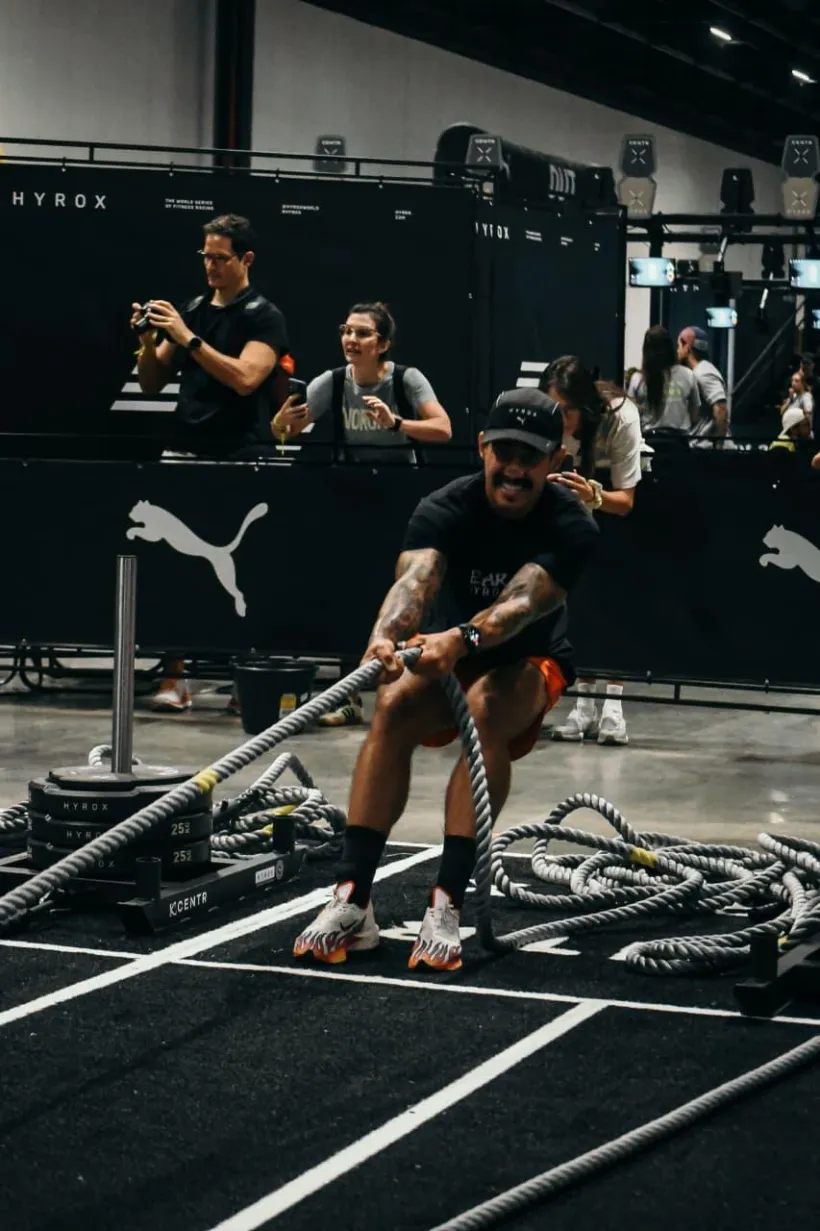
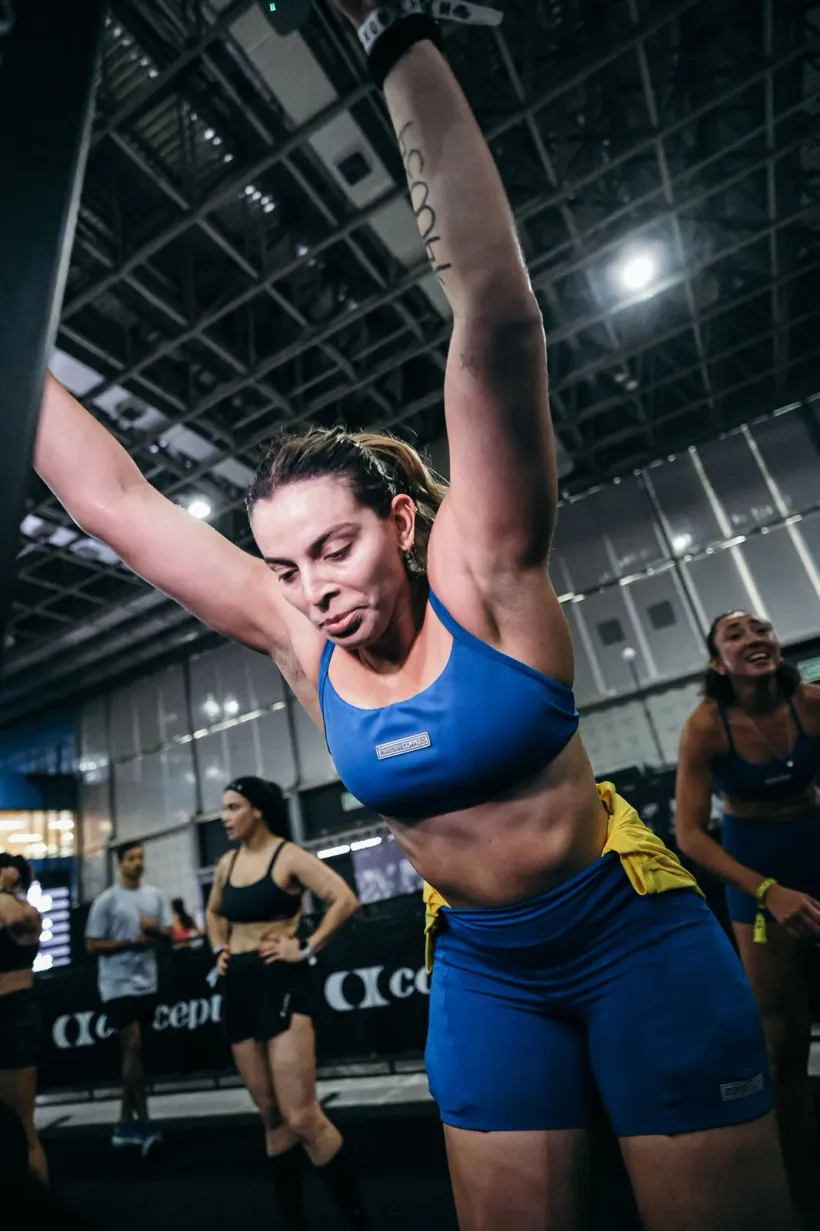
fix: swap HYROX-heavy photos for clean shots
- Day 1: running couple at the finish (cropped side HYROX boards), fits Grand Prix
- Gallery: sandbag lunge + rope + ski + explosive woman (all HYROX-free)
- Removed farmers/rope-cap/sled shots that showed HYROX signage

diff --git a/index.html b/index.html
@@ -159,7 +159,7 @@
 <section class="day day--gp section" id="grandprix">
   <div class="wrap day__grid">
     <div class="day__media reveal-up">
-      <img src="assets/photos/day1.webp" alt="Dupla em farmer's carry durante a prova" loading="lazy" decoding="async" width="1150" height="767">
+      <img src="assets/photos/day1.webp" alt="Dupla cruzando a linha de chegada" loading="lazy" decoding="async" width="900" height="909">
       <span class="day__badge day__badge--gp">Dia 1 · Sáb 12/Set</span>
     </div>
 
@@ -321,10 +321,10 @@
     <h2 class="h-section reveal-up">Estrutura de prova de verdade</h2>
   </div>
   <div class="gallery__grid">
-    <figure class="gallery__item gallery__item--tall reveal-up"><img src="assets/photos/g1.webp" alt="Atleta empurrando o trenó" loading="lazy" decoding="async" width="820" height="1230"></figure>
+    <figure class="gallery__item gallery__item--tall reveal-up"><img src="assets/photos/g1.webp" alt="Atleta em avanço com saco de areia" loading="lazy" decoding="async" width="780" height="1361"></figure>
     <figure class="gallery__item reveal-up"><img src="assets/photos/g3.webp" alt="Atleta na corda naval" loading="lazy" decoding="async" width="820" height="1230"></figure>
     <figure class="gallery__item gallery__item--tall reveal-up"><img src="assets/photos/g2.webp" alt="Atleta no SkiErg" loading="lazy" decoding="async" width="880" height="1320"></figure>
-    <figure class="gallery__item reveal-up"><img src="assets/photos/g4.webp" alt="Atleta puxando a corda" loading="lazy" decoding="async" width="820" height="1230"></figure>
+    <figure class="gallery__item reveal-up"><img src="assets/photos/g4.webp" alt="Atleta feminina em movimento explosivo" loading="lazy" decoding="async" width="820" height="1230"></figure>
   </div>
 </section>
 